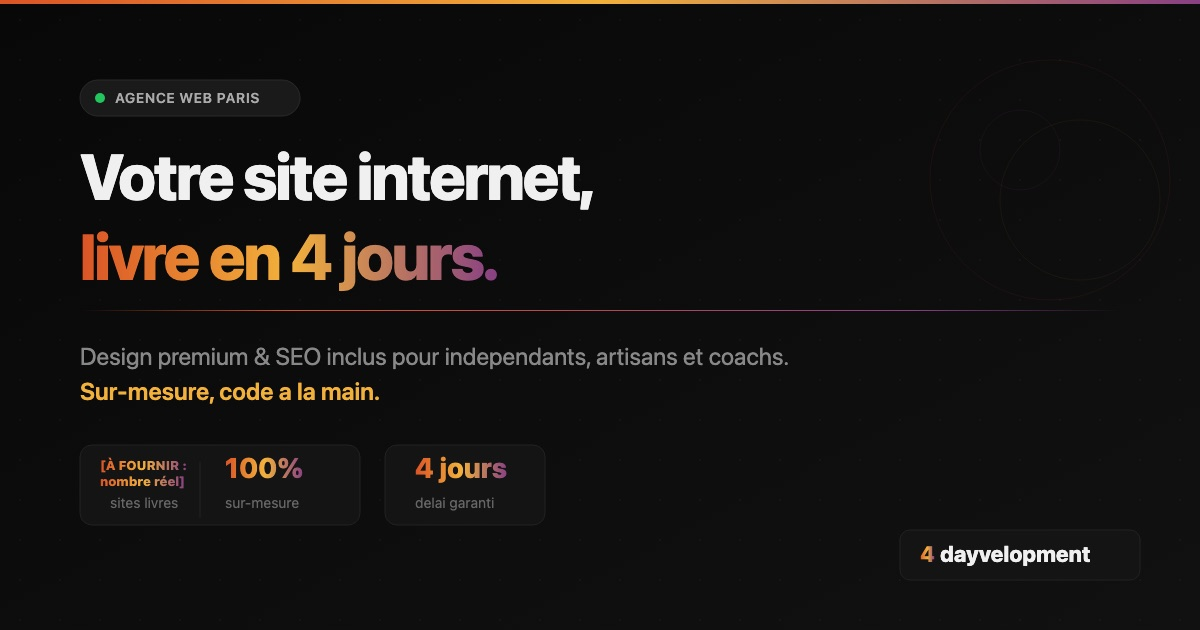
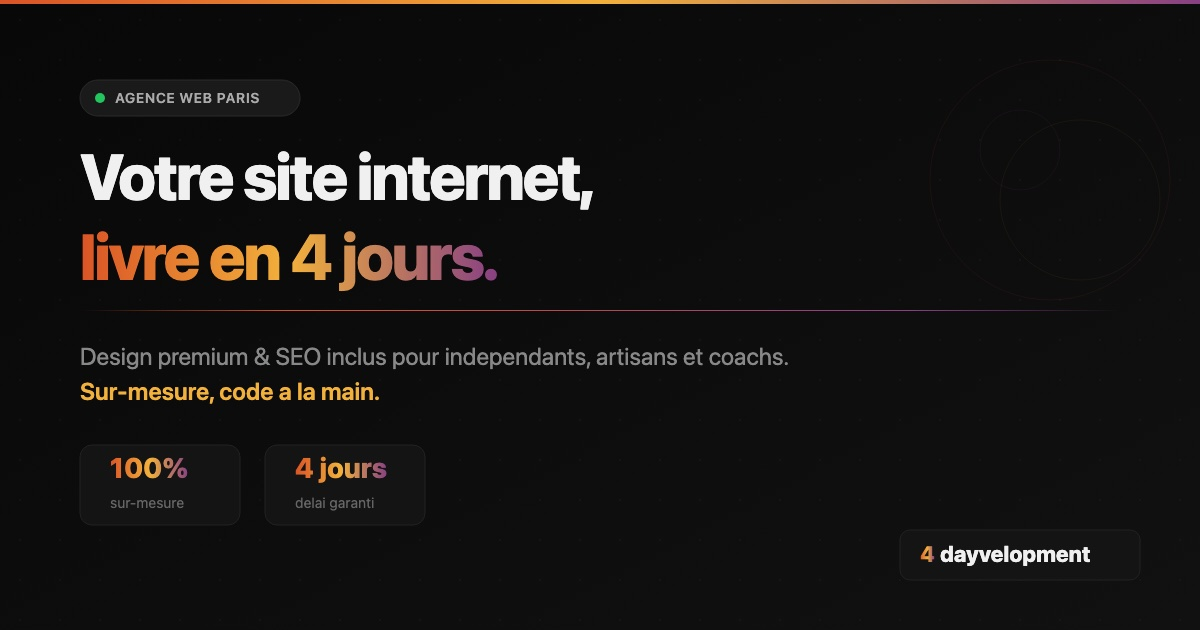
Placeholders : plus aucun [À FOURNIR] ni [À VALIDER] sur le site
Chaque trou est retiré, ou la phrase est réécrite avec les seules
informations établies :
- home : le chiffre « projets livrés » sort du bandeau et de l'image de
  partage (SVG et JPG régénéré) ;
- CGV art. 5 et 6 : marqueurs retirés ; remboursement sans délai chiffré,
  sans liste d'exclusions, garantie limitée aux sites internet ;
- FAQ et pages services : plus de mention « maintenance ou devis » pour
  les modifications de contenu ;
- /agence : cartes des associés et lignes légales inconnues retirées ;
- /services/application-web : lignes « inclus ou sur devis » et délais
  réels retirés ; /methode-4-jours : élément de liste inconnu retiré ;
- signatures « par [associé] » retirées des dates de mise à jour.

Changed region(s): [[0.185, 0.7238, 0.4317, 0.8143], [0.0617, 0.7238, 0.1542, 0.8143]]

diff --git a/public/services/application-web.html b/public/services/application-web.html
@@ -59,7 +59,7 @@
       <h1 class="hero-title reveal" style="font-size:clamp(2.2rem,5vw,3.8rem);margin-top:20px;">
         Créer une <em class="gradient-text">application web</em> ou un MVP
       </h1>
-      <p class="maj">Mis à jour le <time datetime="2026-09-23">23 septembre 2026</time> par [À FOURNIR : associé auteur de la page]</p>
+      <p class="maj">Mis à jour le <time datetime="2026-09-23">23 septembre 2026</time></p>
 
       <p class="hero-desc reveal" style="max-width:700px;">
         <strong>L'essentiel :</strong> 4dayvelopment, agence web à Paris, conçoit des applications web installables (PWA) : MVP, outil métier ou plateforme, base de données incluse. Une application démarre à 1 990 € TTC, payable en 2 fois 995 € TTC, et elle est livrée à partir de 4 jours ouvrés, avec un délai fixé au devis selon les fonctionnalités.
@@ -97,14 +97,6 @@
               <tr><td style="padding:12px 8px;border-top:1px solid #222;vertical-align:top;">Application installable (PWA)</td><td style="padding:12px 8px;border-top:1px solid #222;vertical-align:top;">Oui</td></tr>
               <tr><td style="padding:12px 8px;border-top:1px solid #222;vertical-align:top;">Base de données</td><td style="padding:12px 8px;border-top:1px solid #222;vertical-align:top;">Oui</td></tr>
               <tr><td style="padding:12px 8px;border-top:1px solid #222;vertical-align:top;">Hébergement la première année</td><td style="padding:12px 8px;border-top:1px solid #222;vertical-align:top;">Oui</td></tr>
-              <tr><td style="padding:12px 8px;border-top:1px solid #222;vertical-align:top;">Comptes utilisateurs</td><td style="padding:12px 8px;border-top:1px solid #222;vertical-align:top;">[À FOURNIR : inclus ou sur devis]</td></tr>
-              <tr><td style="padding:12px 8px;border-top:1px solid #222;vertical-align:top;">Espace admin</td><td style="padding:12px 8px;border-top:1px solid #222;vertical-align:top;">[À FOURNIR : inclus ou sur devis]</td></tr>
-              <tr><td style="padding:12px 8px;border-top:1px solid #222;vertical-align:top;">Paiement en ligne</td><td style="padding:12px 8px;border-top:1px solid #222;vertical-align:top;">[À FOURNIR : inclus ou sur devis]</td></tr>
-              <tr><td style="padding:12px 8px;border-top:1px solid #222;vertical-align:top;">Tableau de bord</td><td style="padding:12px 8px;border-top:1px solid #222;vertical-align:top;">[À FOURNIR : inclus ou sur devis]</td></tr>
-              <tr><td style="padding:12px 8px;border-top:1px solid #222;vertical-align:top;">Réservations</td><td style="padding:12px 8px;border-top:1px solid #222;vertical-align:top;">[À FOURNIR : inclus ou sur devis]</td></tr>
-              <tr><td style="padding:12px 8px;border-top:1px solid #222;vertical-align:top;">Messagerie</td><td style="padding:12px 8px;border-top:1px solid #222;vertical-align:top;">[À FOURNIR : inclus ou sur devis]</td></tr>
-              <tr><td style="padding:12px 8px;border-top:1px solid #222;vertical-align:top;">Notifications</td><td style="padding:12px 8px;border-top:1px solid #222;vertical-align:top;">[À FOURNIR : inclus ou sur devis]</td></tr>
-              <tr><td style="padding:12px 8px;border-top:1px solid #222;vertical-align:top;">IA intégrée</td><td style="padding:12px 8px;border-top:1px solid #222;vertical-align:top;">[À FOURNIR : inclus ou sur devis]</td></tr>
             </tbody>
           </table>
           </div>
@@ -112,19 +104,19 @@
       <p style="margin-top:16px;">Les fonctionnalités retenues sont chiffrées dans un devis personnalisé, transmis avant toute commande (CGV, article 2). Le paiement se fait en 2 fois sans frais : 50 % à la commande, 50 % à la livraison.</p>
 
       <h2 class="section-title reveal" style="font-size:2rem;text-align:left;margin-top:50px;">Combien de temps pour développer un MVP ?</h2>
-      <p>Une application web est livrée à partir de 4 jours ouvrés. Le délai exact dépend des fonctionnalités et figure au devis. Il court, comme pour un site, à partir du jour où vos contenus sont fournis, l'acompte encaissé et le périmètre validé au brief. La garantie « 4 jours ou c'est gratuit » porte sur les sites internet ; pour une application web, [À FOURNIR : garantie appliquée au délai du devis, ou non].</p>
+      <p>Une application web est livrée à partir de 4 jours ouvrés. Le délai exact dépend des fonctionnalités et figure au devis. Il court, comme pour un site, à partir du jour où vos contenus sont fournis, l'acompte encaissé et le périmètre validé au brief. La garantie « 4 jours ou c'est gratuit » porte sur les sites internet.</p>
 
       <h2 class="section-title reveal" style="font-size:2rem;text-align:left;margin-top:50px;">Des applications déjà en ligne ?</h2>
       <ul style="margin:16px 0;padding-left:20px;">
-        <li style="margin:12px 0;"><a href="https://secure-site-weld.vercel.app/" target="_blank" rel="noopener" style="color:#f2b13b;">SecurEats</a> : Site vitrine et application de commande installable (PWA), sans intermédiaire ni commission. Délai réel : [À FOURNIR].</li>
-        <li style="margin:12px 0;"><a href="https://www.nakama-app.fr/" target="_blank" rel="noopener" style="color:#f2b13b;">Nakama</a> : Plateforme de mise en relation entre sportifs et coachs : recherche par sport, par créneau et par lieu. Délai réel : [À FOURNIR].</li>
-        <li style="margin:12px 0;"><a href="https://dyg-olfu.onrender.com/" target="_blank" rel="noopener" style="color:#f2b13b;">DYG</a> : Plateforme communautaire pour développeurs, avec scan GitHub et plus de 150 exercices. Délai réel : [À FOURNIR].</li>
-        <li style="margin:12px 0;"><a href="https://flaynn.io/" target="_blank" rel="noopener" style="color:#f2b13b;">Flaynn (projet de l'équipe)</a> : Plateforme de scoring de startups pre-seed sur cinq piliers, avec un verdict investisseur explicable. Délai réel : [À FOURNIR].</li>
+        <li style="margin:12px 0;"><a href="https://secure-site-weld.vercel.app/" target="_blank" rel="noopener" style="color:#f2b13b;">SecurEats</a> : Site vitrine et application de commande installable (PWA), sans intermédiaire ni commission.</li>
+        <li style="margin:12px 0;"><a href="https://www.nakama-app.fr/" target="_blank" rel="noopener" style="color:#f2b13b;">Nakama</a> : Plateforme de mise en relation entre sportifs et coachs : recherche par sport, par créneau et par lieu.</li>
+        <li style="margin:12px 0;"><a href="https://dyg-olfu.onrender.com/" target="_blank" rel="noopener" style="color:#f2b13b;">DYG</a> : Plateforme communautaire pour développeurs, avec scan GitHub et plus de 150 exercices.</li>
+        <li style="margin:12px 0;"><a href="https://flaynn.io/" target="_blank" rel="noopener" style="color:#f2b13b;">Flaynn (projet de l'équipe)</a> : Plateforme de scoring de startups pre-seed sur cinq piliers, avec un verdict investisseur explicable.</li>
       </ul>
       <p style="margin-top:16px;">Toutes les réalisations sont présentées sur la page <a href="/portfolio" style="color:#f2b13b;">portfolio</a>.</p>
 
       <h2 class="section-title reveal" style="font-size:2rem;text-align:left;margin-top:50px;">Pouvez-vous reprendre un prototype existant ?</h2>
-      <p>Oui : 4dayvelopment reprend aussi des prototypes créés avec Lovable, pour les transformer en application prête pour la production. [À FOURNIR : conditions, délai et prix d'une reprise de prototype.]</p>
+      <p>Oui : 4dayvelopment reprend aussi des prototypes créés avec Lovable, pour les transformer en application prête pour la production.</p>
 
       <h2 class="section-title reveal" style="font-size:2rem;text-align:left;margin-top:50px;">Et après la livraison ?</h2>
       <p>La maintenance est proposée en option : elle comprend les mises à jour de sécurité, la correction de bugs, les sauvegardes régulières et le support technique par email, pour 80 € TTC par mois, avec un engagement de 12 mois résiliable à l'échéance avec un préavis de 30 jours.</p>

diff --git a/public/agence.html b/public/agence.html
@@ -59,10 +59,10 @@
       <h1 class="hero-title reveal" style="font-size:clamp(2.2rem,5vw,3.8rem);margin-top:20px;">
         L'agence <em class="gradient-text">4dayvelopment</em>
       </h1>
-      <p class="maj">Mis à jour le <time datetime="2026-09-23">23 septembre 2026</time> par [À FOURNIR : associé auteur de la page]</p>
+      <p class="maj">Mis à jour le <time datetime="2026-09-23">23 septembre 2026</time></p>
 
       <p class="hero-desc reveal" style="max-width:700px;">
-        <strong>L'essentiel :</strong> 4dayvelopment est une agence web basée à Paris, fondée par trois associés [À FOURNIR : année de création]. Elle crée des sites internet livrés en 4 jours ouvrés et des applications web, à prix affiché, pour les indépendants, artisans, coachs et PME francophones.
+        <strong>L'essentiel :</strong> 4dayvelopment est une agence web basée à Paris, fondée par trois associés. Elle crée des sites internet livrés en 4 jours ouvrés et des applications web, à prix affiché, pour les indépendants, artisans, coachs et PME francophones.
       </p>
 
       <div class="hero-actions reveal" style="margin-top:32px;">
@@ -78,31 +78,9 @@
   <section style="padding:20px 24px 80px;">
     <div class="container" style="max-width:800px;color:#bbb;line-height:1.8;font-size:16px;">
 
-      <h2 class="section-title reveal" style="font-size:2rem;text-align:left;">Qui sont les associés ?</h2>
       <!-- Une fois les noms fournis : ajouter founder et employee (Person, avec sameAs vers LinkedIn)
            à l'Organization du JSON-LD de la home, et un Person par associé ici. -->
-      <div style="display:grid;grid-template-columns:repeat(auto-fit,minmax(min(220px,100%),1fr));gap:20px;margin:24px 0;">
-        <div style="background:#141414;border:1px solid #222;border-radius:14px;padding:24px;">
-          <h3 style="color:#e8e8e8;font-size:1.2rem;margin:0 0 6px;">[À FOURNIR : prénom et nom de l'associé 1]</h3>
-          <p style="color:#f2b13b;font-size:14px;margin:0 0 12px;">[À FOURNIR : rôle]</p>
-          <p style="font-size:14px;margin:0 0 12px;">[À FOURNIR : parcours et spécialité en deux phrases]</p>
-          <p style="font-size:14px;margin:0;">[À FOURNIR : lien vers le profil LinkedIn]</p>
-        </div>
-        <div style="background:#141414;border:1px solid #222;border-radius:14px;padding:24px;">
-          <h3 style="color:#e8e8e8;font-size:1.2rem;margin:0 0 6px;">[À FOURNIR : prénom et nom de l'associé 2]</h3>
-          <p style="color:#f2b13b;font-size:14px;margin:0 0 12px;">[À FOURNIR : rôle]</p>
-          <p style="font-size:14px;margin:0 0 12px;">[À FOURNIR : parcours et spécialité en deux phrases]</p>
-          <p style="font-size:14px;margin:0;">[À FOURNIR : lien vers le profil LinkedIn]</p>
-        </div>
-        <div style="background:#141414;border:1px solid #222;border-radius:14px;padding:24px;">
-          <h3 style="color:#e8e8e8;font-size:1.2rem;margin:0 0 6px;">[À FOURNIR : prénom et nom de l'associé 3]</h3>
-          <p style="color:#f2b13b;font-size:14px;margin:0 0 12px;">[À FOURNIR : rôle]</p>
-          <p style="font-size:14px;margin:0 0 12px;">[À FOURNIR : parcours et spécialité en deux phrases]</p>
-          <p style="font-size:14px;margin:0;">[À FOURNIR : lien vers le profil LinkedIn]</p>
-        </div>
-      </div>
-
-      <h2 class="section-title reveal" style="font-size:2rem;text-align:left;margin-top:50px;">Où est basée l'agence ?</h2>
+      <h2 class="section-title reveal" style="font-size:2rem;text-align:left;">Où est basée l'agence ?</h2>
       <p>4dayvelopment est basée à Paris. L'agence intervient à Paris, en Île-de-France et à distance dans toute la France.</p>
 
       <h2 class="section-title reveal" style="font-size:2rem;text-align:left;margin-top:50px;">Comment travaille l'agence ?</h2>
@@ -118,11 +96,6 @@
             <caption style="text-align:left;color:#888;padding-bottom:12px;">Informations légales de 4dayvelopment</caption>
             <thead><tr><th scope="col" style="text-align:left;padding:12px 8px;color:#888;font-weight:600;">Information</th><th scope="col" style="text-align:left;padding:12px 8px;color:#888;font-weight:600;">Valeur</th></tr></thead>
             <tbody>
-              <tr><td style="padding:12px 8px;border-top:1px solid #222;vertical-align:top;">Raison sociale</td><td style="padding:12px 8px;border-top:1px solid #222;vertical-align:top;">[À FOURNIR]</td></tr>
-              <tr><td style="padding:12px 8px;border-top:1px solid #222;vertical-align:top;">Forme juridique</td><td style="padding:12px 8px;border-top:1px solid #222;vertical-align:top;">[À FOURNIR]</td></tr>
-              <tr><td style="padding:12px 8px;border-top:1px solid #222;vertical-align:top;">SIREN</td><td style="padding:12px 8px;border-top:1px solid #222;vertical-align:top;">[À FOURNIR]</td></tr>
-              <tr><td style="padding:12px 8px;border-top:1px solid #222;vertical-align:top;">Siège</td><td style="padding:12px 8px;border-top:1px solid #222;vertical-align:top;">[À FOURNIR : adresse postale]</td></tr>
-              <tr><td style="padding:12px 8px;border-top:1px solid #222;vertical-align:top;">Date de création</td><td style="padding:12px 8px;border-top:1px solid #222;vertical-align:top;">[À FOURNIR]</td></tr>
               <tr><td style="padding:12px 8px;border-top:1px solid #222;vertical-align:top;">Email</td><td style="padding:12px 8px;border-top:1px solid #222;vertical-align:top;"><a href="mailto:contact@4dayvelopment.fr" style="color:#f2b13b;">contact@4dayvelopment.fr</a></td></tr>
               <tr><td style="padding:12px 8px;border-top:1px solid #222;vertical-align:top;">Conditions de vente</td><td style="padding:12px 8px;border-top:1px solid #222;vertical-align:top;"><a href="/cgv" style="color:#f2b13b;">CGV</a></td></tr>
             </tbody>
@@ -136,7 +109,7 @@
       <h3 style="color:#e8e8e8;font-size:1.3rem;margin-top:30px;">Comment contacter l'agence ?</h3>
       <p style="margin-top:12px;">Par email à contact@4dayvelopment.fr ou par le formulaire de demande de devis. Une réponse est envoyée sous 24h.</p>
       <h3 style="color:#e8e8e8;font-size:1.3rem;margin-top:30px;">Qui réalise les sites ?</h3>
-      <p style="margin-top:12px;">Les trois associés de l'agence. [À FOURNIR : répartition des rôles.]</p>
+      <p style="margin-top:12px;">Les trois associés de l'agence.</p>
 
       <div style="background:rgba(218,84,38,0.08);border:1px solid rgba(218,84,38,0.2);border-radius:14px;padding:28px;margin:50px 0 0;text-align:center;">
         <p style="font-size:18px;color:#e8e8e8;font-weight:700;margin-bottom:12px;">Parlons de votre projet</p>
@@ -237,7 +210,7 @@
             "name": "Qui réalise les sites ?",
             "acceptedAnswer": {
               "@type": "Answer",
-              "text": "Les trois associés de l'agence. [À FOURNIR : répartition des rôles.]"
+              "text": "Les trois associés de l'agence."
             }
           }
         ]

diff --git a/public/cgv.html b/public/cgv.html
@@ -101,7 +101,7 @@
 
       <p>En cas de retard de paiement, des penalites de retard sont applicables de plein droit, au taux d'interet legal majore de 3 points, sans qu'un rappel soit necessaire. Une indemnite forfaitaire de 40 euros pour frais de recouvrement sera egalement due, conformement aux articles L.441-10 et D.441-5 du Code de commerce.</p>
 
-      <h2 id="article-5" style="color:#e8e8e8;font-size:1.4rem;margin-top:36px;margin-bottom:12px;font-weight:700;">5. Délai de livraison [À VALIDER JURISTE]</h2>
+      <h2 id="article-5" style="color:#e8e8e8;font-size:1.4rem;margin-top:36px;margin-bottom:12px;font-weight:700;">5. Délai de livraison</h2>
 
       <p>Le délai de livraison d'un site internet est de <strong style="color:#e8e8e8;">4 jours ouvrés</strong>. Il court à compter du jour ouvré où les trois conditions suivantes sont toutes remplies :</p>
       <ul style="padding-left:20px;margin:12px 0;">
@@ -114,19 +114,19 @@
 
       <p style="margin-top:12px;">Le délai de livraison est garanti contractuellement. Il est prolongé d'autant en cas de retard du client dans la transmission des contenus ou dans ses validations, ou de demande de modification qui étend le périmètre validé au brief.</p>
 
-      <h2 id="article-6" style="color:#e8e8e8;font-size:1.4rem;margin-top:36px;margin-bottom:12px;font-weight:700;">6. Engagement de livraison : 4 jours ouvrés ou c'est gratuit [À VALIDER JURISTE]</h2>
+      <h2 id="article-6" style="color:#e8e8e8;font-size:1.4rem;margin-top:36px;margin-bottom:12px;font-weight:700;">6. Engagement de livraison : 4 jours ouvrés ou c'est gratuit</h2>
 
       <p>4dayvelopment s'engage à livrer le site internet au plus tard à la fin du <strong style="color:#e8e8e8;">Jour 4</strong> défini à l'article 5. Ce délai figure au devis et constitue un engagement contractuel.</p>
 
-      <p style="margin-top:12px;">Si le site n'est pas livré dans ce délai pour une cause imputable à 4dayvelopment, <strong style="color:#e8e8e8;">la prestation de création est gratuite</strong> : l'acompte versé est intégralement remboursé sous [À FOURNIR : délai de remboursement en jours] et le solde n'est pas dû. [À VALIDER JURISTE : le site est-il livré malgré tout, et les droits de propriété intellectuelle de l'article 8 sont-ils alors transférés ?]</p>
+      <p style="margin-top:12px;">Si le site n'est pas livré dans ce délai pour une cause imputable à 4dayvelopment, <strong style="color:#e8e8e8;">la prestation de création est gratuite</strong> : l'acompte versé est intégralement remboursé et le solde n'est pas dû.</p>
 
       <p style="margin-top:12px;">Cette garantie ne s'applique que si, au Jour 1, les trois conditions de l'article 5 sont réunies : <strong style="color:#e8e8e8;">contenus fournis, acompte encaissé, périmètre validé au brief</strong>.</p>
 
       <p style="margin-top:12px;">Ne sont pas imputables à 4dayvelopment et prolongent le délai d'autant : les retards du client dans la transmission d'éléments ou dans ses validations, les demandes de modification qui étendent le périmètre validé au brief, et les cas de force majeure (article 12).</p>
 
-      <p style="margin-top:12px;">Sont exclus de la gratuité : [À VALIDER JURISTE : options et frais de tiers, par exemple nom de domaine, licences, maintenance, option WordPress]. La garantie porte sur les sites internet ; pour une application web, [À VALIDER JURISTE : garantie appliquée au délai du devis, ou non applicable].</p>
+      <p style="margin-top:12px;">La garantie porte sur les sites internet.</p>
 
-      <p style="margin-top:12px;">Le site est réputé livré à la date de sa mise en ligne ou de sa mise à disposition complète au client par un lien de prévisualisation [À VALIDER JURISTE].</p>
+      <p style="margin-top:12px;">Le site est réputé livré à la date de sa mise en ligne ou de sa mise à disposition complète au client par un lien de prévisualisation.</p>
 
       <h2 style="color:#e8e8e8;font-size:1.4rem;margin-top:36px;margin-bottom:12px;font-weight:700;">7. Revisions et modifications</h2>
 

diff --git a/public/index.html b/public/index.html
@@ -332,11 +332,6 @@
 <div class="results-banner">
   <div class="results-inner">
     <div class="result-item reveal">
-      <div class="result-num gradient-text">[N]</div>
-      <div class="result-label">projets livrés<br>en moins de 4 jours<br>[À FOURNIR : nombre réel N]</div>
-    </div>
-    <div class="result-divider"></div>
-    <div class="result-item reveal">
       <div class="result-num gradient-text">4 jours</div>
       <div class="result-label">délai de livraison<br>garanti contractuellement</div>
     </div>
@@ -831,7 +826,7 @@
           </button>
           <div class="faq-answer" id="faq-answer-5" role="region" aria-labelledby="">
             <div class="faq-answer-inner">
-              <p data-i18n="faq-5-a">Ça dépend du mode de livraison choisi. En <strong>sur-mesure</strong> (l'offre par défaut), on vous remet tous les fichiers sources de votre site : pour les modifications de contenu, [À FOURNIR : incluses dans la maintenance ou sur devis]. Si vous préférez garder la main directement, chaque formule peut aussi être livrée sur <strong>WordPress</strong> (+250€ TTC) : vous modifiez alors textes, images et pages vous-même, en glisser-déposer, sans dépendre d'un développeur à chaque changement. Une formation à la prise en main est incluse à la livraison.</p>
+              <p data-i18n="faq-5-a">Ça dépend du mode de livraison choisi. En <strong>sur-mesure</strong> (l'offre par défaut), on vous remet tous les fichiers sources de votre site. Si vous préférez garder la main directement, chaque formule peut aussi être livrée sur <strong>WordPress</strong> (+250€ TTC) : vous modifiez alors textes, images et pages vous-même, en glisser-déposer, sans dépendre d'un développeur à chaque changement. Une formation à la prise en main est incluse à la livraison.</p>
             </div>
           </div>
         </div>
@@ -1208,7 +1203,7 @@
             "name": "Vais-je pouvoir modifier mon site moi-même ?",
             "acceptedAnswer": {
               "@type": "Answer",
-              "text": "Ça dépend du mode de livraison choisi. En sur-mesure (l'offre par défaut), on vous remet tous les fichiers sources de votre site : pour les modifications de contenu, [À FOURNIR : incluses dans la maintenance ou sur devis]. Si vous préférez garder la main directement, chaque formule peut aussi être livrée sur WordPress (+250€ TTC) : vous modifiez alors textes, images et pages vous-même, en glisser-déposer, sans dépendre d'un développeur à chaque changement. Une formation à la prise en main est incluse à la livraison."
+              "text": "Ça dépend du mode de livraison choisi. En sur-mesure (l'offre par défaut), on vous remet tous les fichiers sources de votre site. Si vous préférez garder la main directement, chaque formule peut aussi être livrée sur WordPress (+250€ TTC) : vous modifiez alors textes, images et pages vous-même, en glisser-déposer, sans dépendre d'un développeur à chaque changement. Une formation à la prise en main est incluse à la livraison."
             }
           },
           {

diff --git a/public/methode-4-jours.html b/public/methode-4-jours.html
@@ -59,7 +59,7 @@
       <h1 class="hero-title reveal" style="font-size:clamp(2.2rem,5vw,3.8rem);margin-top:20px;">
         La méthode <em class="gradient-text">4 jours</em>, étape par étape
       </h1>
-      <p class="maj">Mis à jour le <time datetime="2026-09-23">23 septembre 2026</time> par [À FOURNIR : associé auteur de la page]</p>
+      <p class="maj">Mis à jour le <time datetime="2026-09-23">23 septembre 2026</time></p>
 
       <p class="hero-desc reveal" style="max-width:700px;">
         <strong>L'essentiel :</strong> 4dayvelopment, agence web à Paris, livre un site internet en 4 jours ouvrés, ou c'est gratuit, dès que trois conditions sont réunies : vos contenus sont fournis, l'acompte de 50 % est encaissé et le périmètre est validé au brief. Le site web démarre à 890 € TTC ; une application web démarre à 1 990 € TTC, avec un délai fixé au devis.
@@ -110,8 +110,7 @@
       <ul style="margin:16px 0;padding-left:20px;">
         <li style="margin:10px 0;">vos textes : présentation de l'activité, services, informations pratiques ;</li>
         <li style="margin:10px 0;">vos images et votre logo ;</li>
-        <li style="margin:10px 0;">les informations nécessaires au site : coordonnées, horaires, liens vers vos réseaux ;</li>
-        <li style="margin:10px 0;">[À FOURNIR : autres éléments à préparer, par exemple l'accès à un nom de domaine existant].</li>
+        <li style="margin:10px 0;">les informations nécessaires au site : coordonnées, horaires, liens vers vos réseaux.</li>
       </ul>
       <p style="margin-top:16px;">Vous n'avez pas de textes ni de photos ? 4dayvelopment propose un service de rédaction et de sélection d'images libres de droits, à mentionner lors du brief pour qu'il soit intégré au devis.</p>
 

diff --git a/public/services/site-vitrine.html b/public/services/site-vitrine.html
@@ -137,7 +137,7 @@
           <li style="margin:16px 0;"><strong style="color:#e8e8e8;">Jour 2 : Maquette & design.</strong> Une maquette complète, que vous validez avant qu'on développe une seule ligne. Allers-retours illimités pendant la phase de design.</li>
           <li style="margin:16px 0;"><strong style="color:#e8e8e8;">Jours 3 et 4 : Développement.</strong> On code votre site et on vous envoie un lien de prévisualisation à chaque étape.</li>
           <li style="margin:16px 0;"><strong style="color:#e8e8e8;">Jour 4 : Mise en ligne.</strong> Votre site est publié, testé et optimisé.</li>
-          <li style="margin:16px 0;"><strong style="color:#e8e8e8;">Après livraison : Fichiers sources remis.</strong> Vous recevez les fichiers sources de votre site. Pour vos modifications : [À FOURNIR : incluses dans la maintenance ou sur devis] ; vous pouvez aussi opter pour une livraison WordPress (+250€ TTC) avec formation à la prise en main incluse.</li>
+          <li style="margin:16px 0;"><strong style="color:#e8e8e8;">Après livraison : Fichiers sources remis.</strong> Vous recevez les fichiers sources de votre site. Pour modifier vos contenus vous-même, vous pouvez opter pour une livraison WordPress (+250€ TTC) avec formation à la prise en main incluse.</li>
         </ol>
 
         <h3 style="color:#e8e8e8;font-size:1.5rem;margin-top:40px;">Combien coûte un site vitrine professionnel ?</h3>

diff --git a/public/services/e-commerce.html b/public/services/e-commerce.html
@@ -117,7 +117,7 @@
           </div>
           <div style="background:#141414;border:1px solid #222;border-radius:14px;padding:24px;">
             <h4 style="color:#f2b13b;font-size:1rem;margin-bottom:8px;">Fichiers sources remis à la livraison</h4>
-            <p style="font-size:14px;">Vous recevez tous les fichiers sources de votre boutique. Pour les mises à jour de contenu, [À FOURNIR : incluses dans la maintenance ou sur devis] ; si vous préférez gérer votre boutique vous-même, elle peut aussi être livrée sur WordPress (+250€ TTC), avec formation à la prise en main incluse.</p>
+            <p style="font-size:14px;">Vous recevez tous les fichiers sources de votre boutique. Si vous préférez la gérer vous-même, elle peut aussi être livrée sur WordPress (+250€ TTC), avec formation à la prise en main incluse.</p>
           </div>
         </div>
 
